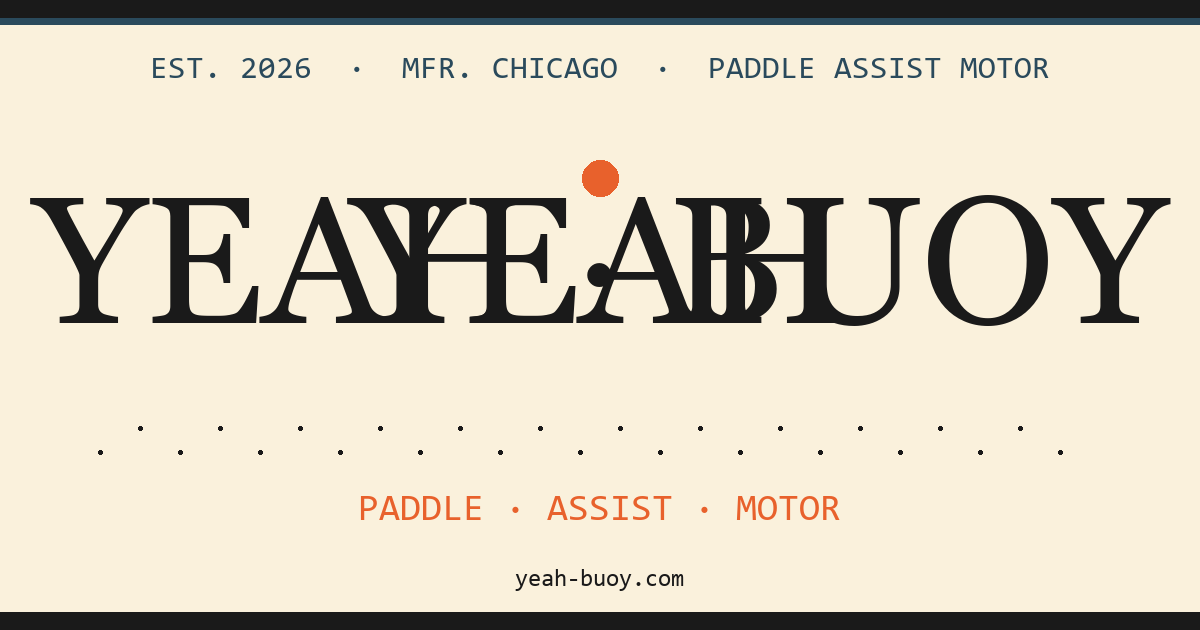
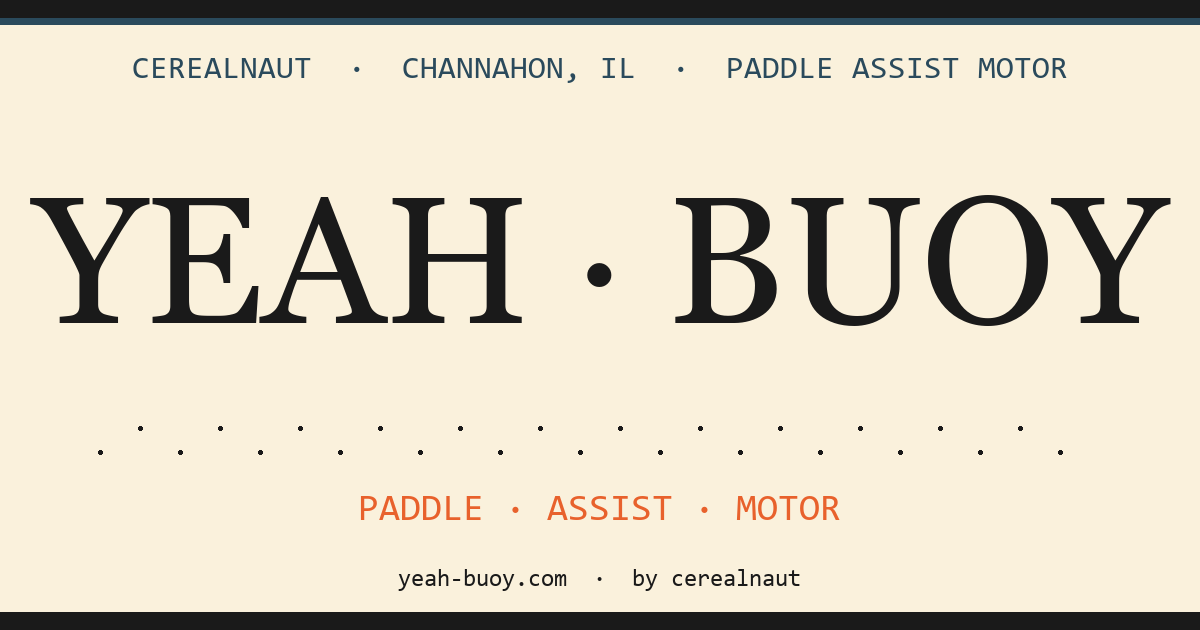
Attribute product to Cerealnaut in Channahon, IL (Ryan's maker name)
- All product credit now says 'Cerealnaut' (not Ryan O)
- Location corrected from Chicago → Channahon, IL
- Removed broken cerealnaut.com footer link
- Regenerated OG card and hero poster with new attribution
- Updated sticker, wordmark, and meta description to match

diff --git a/index.html b/index.html
@@ -5,7 +5,7 @@
 <meta name="viewport" content="width=device-width, initial-scale=1.0">
 <meta name="theme-color" content="#E8612C">
 <title>YEAH BUOY · Paddle Assist Motor for Kayaks</title>
-<meta name="description" content="A 3D-printed electric thruster for kayaks, inflatables, and jon boats. Open-source files. Field-repairable. Built by hand in Chicago.">
+<meta name="description" content="A 3D-printed electric thruster for kayaks, inflatables, and jon boats. Open-source files. Field-repairable. Built by hand by Cerealnaut in Channahon, IL.">
 <meta property="og:title" content="YEAH BUOY · Paddle Assist Motor">
 <meta property="og:description" content="3D-printed. Open-source. Field-repairable. Paddle-assist motor for kayaks, inflatables, and jon boats.">
 <meta property="og:image" content="assets/social/og-card.png">
@@ -551,7 +551,7 @@
   <div class="copy">
     <span class="eyebrow">Paddle · Assist · Motor</span>
     <h1>YEAH<span class="dot">·</span>BUOY</h1>
-    <p class="tag">Mfr. Chicago · 3D-printed · Open-source files</p>
+    <p class="tag">Cerealnaut · Channahon, IL · 3D-printed · Open-source files</p>
     <p class="lede">
       A motor and battery pack that turns any kayak, inflatable, or jon boat into
       a paddle-assist vessel. Plug in the ring terminal, throttle up on the wireless
@@ -570,7 +570,7 @@
   </div>
   <div class="hero-img">
     <img src="assets/photos/06-kayak-mounted-hero.jpg" alt="YEAH BUOY thruster mounted on the back of a kayak">
-    <span class="stamp">FIELD-TESTED · CHICAGO</span>
+    <span class="stamp">FIELD-TESTED · CHANNAHON, IL</span>
   </div>
 </header>
 
@@ -711,7 +711,7 @@
     <p style="max-width: 42em; font-size: 18px; color: var(--sea);">
       The whole point is keeping the price honest. If you're a maker, you already have
       most of what you need — a 4S drone motor and a 12V LiFePO4 cell. If you just
-      want one, Ryan builds them.
+      want one, Cerealnaut builds them.
     </p>
     <div class="grid">
       <div class="path build">
@@ -723,7 +723,7 @@
           <li>Drone-battery hobbyists have the parts already</li>
           <li>Conformal coat the prop yourself</li>
           <li>Tweak the design, share your remix back</li>
-          <li>Ryan's name is in the print — attribution baked in</li>
+          <li>Cerealnaut's name is in the print — attribution baked in</li>
         </ul>
         <a class="btn btn-primary" href="#" onclick="return false;">Get the STLs</a>
         <p style="margin-top: 14px; font-family: 'Roboto Mono', monospace; font-size: 11px; color: var(--sea); letter-spacing: 0.16em; text-transform: uppercase;">
@@ -734,7 +734,7 @@
         <span class="tag">Buy it</span>
         <h3>Or buy it built</h3>
         <ul>
-          <li>Ryan builds each one by hand in Chicago</li>
+          <li>Cerealnaut builds each one by hand in Channahon, IL</li>
           <li>Tested before it ships</li>
           <li>Battery, motor, ESC, prop, mount — all included</li>
           <li>Pair your remote and go</li>
@@ -756,8 +756,9 @@
       <div>
         <h5>YEAH·BUOY</h5>
         <p style="font-size: 15px; line-height: 1.6; margin: 0; max-width: 36em;">
-          Designed and built by Ryan O in Chicago. Open-source files released for makers.
-          Finished units built to order. Field-repairable by design.
+          Designed and built by <strong>Cerealnaut</strong> in Channahon, Illinois.
+          Open-source files released for makers. Finished units built to order.
+          Field-repairable by design.
         </p>
       </div>
       <div>
@@ -773,7 +774,6 @@
         <h5>Send It Studio</h5>
         <ul style="list-style: none; padding: 0; margin: 0; font-size: 14px; line-height: 1.9;">
           <li><a href="https://billthorpe522.github.io/sendit-studio/" target="_blank" rel="noopener">Send It Studio ↗</a></li>
-          <li><a href="https://cerealnaut.com" target="_blank" rel="noopener">cerealnaut ↗</a></li>
           <li><a href="https://github.com/Billthorpe522/yeah-buoy" target="_blank" rel="noopener">Source on GitHub ↗</a></li>
         </ul>
       </div>
@@ -781,7 +781,9 @@
     <div class="legal">
       <span>© 2026 YEAH·BUOY</span>
       <span>·</span>
-      <span>CHICAGO, IL</span>
+      <span>DESIGNED + BUILT BY CEREALNAUT</span>
+      <span>·</span>
+      <span>CHANNAHON, IL</span>
       <span>·</span>
       <span>BUILT BY HAND</span>
       <span>·</span>

diff --git a/README.md b/README.md
@@ -37,11 +37,11 @@ yeah-buoy/
 | **Connectors** | XT60 + ring terminal + waterproof plug |
 | **Files** | STLs release on Maker World (TBD) |
 
-## Strategy (from Ryan's audio)
+## Strategy (from the audio)
 
 The product targets **two buyers with one design**:
 1. **Makers** — print it from open-source STLs, source the motor + battery yourself
-2. **Buyers** — order a finished unit from Ryan, ready to plug and paddle
+2. **Buyers** — order a finished unit from Cerealnaut, ready to plug and paddle
 
 Both paths funnel through the same Maker World listing — that's the marketing surface.
 
@@ -49,7 +49,7 @@ Both paths funnel through the same Maker World listing — that's the marketing 
 
 - **Wordmark:** retro-marine manual style, slab serif + monospace details
 - **Palette:** safety orange `#E8612C`, cream `#FAF1DC`, ink `#1A1A1A`, sea `#2A4A5C`
-- **Built by:** Send It Studio (Bill Thorpe) for Ryan O
+- **Built by:** Send It Studio (Bill Thorpe) for Cerealnaut
 
 ## Stack
 
